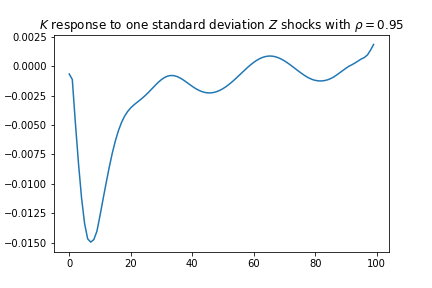
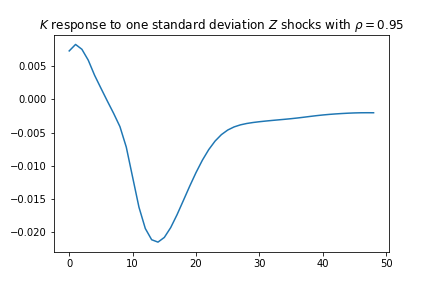
Add files via upload

diff --git a/zchen/ks2.py b/zchen/ks2.py
@@ -79,7 +79,7 @@ def backward_iterate(Va_p, Pi_p, a_grid, e_grid, r, w, beta, eis, hbar,B_Bar,gam
     a_nw=coh_nw-c_nw
     
     ####Compare
-    hh=(Va_w>Va_nw)*1
+    hh=(Va_w>Va_nw)*hbar
     Va=np.maximum(Va_w,Va_nw)
     c=c_w*(Va_w>Va_nw)+c_nw*(Va_w<=Va_nw)
     a=a_w*(Va_w>Va_nw)+a_nw*(Va_w<=Va_nw)
@@ -99,7 +99,7 @@ def pol_ss(Pi, e_grid, a_grid, r, w, beta, eis, hbar,B_Bar,gamma,a_lower, Va_see
     """Find steady state policy functions."""
     if Va_seed is None:
         #coh = (1 + r) * a_grid[np.newaxis, :] + w * hbar * e_grid[:, np.newaxis]
-        coh = (1 + r) * a_grid[np.newaxis, :] + hbar * e_grid[:, np.newaxis]
+        coh = (1 + r) * (a_grid[np.newaxis, :]-a_lower) + hbar * e_grid[:, np.newaxis]
         Va = np.log(coh) 
     else:
         Va = Va_seed
@@ -140,16 +140,16 @@ def K_supply_demand(Pi, a_grid, e_grid, r, w, beta, eis,hbar,B_Bar,gamma,a_lower
     w=(1 - alpha) *  (alpha  / (r+delta)) ** (alpha / (1 - alpha))
     result=household_ss(Pi, a_grid, e_grid, r, w, beta, eis, hbar,B_Bar,gamma,a_lower)
     supply=result['A']
-    labor=result['H']*hbar
+    labor=result['H']
     demand=((result['r']+delta)/alpha)** (1/(alpha-1))*labor
     
     return supply-demand
 
 
-def ks_ss(r_min=0.001, r_max=0.06, beta=0.98267, eis=1, delta=0.025, alpha=0.64, b=0.15, nA=100, amax=200,hbar=1/3,B_Bar=166.3,gamma=0.4,a_lower=0):
+def ks_ss(r_min=0.001, r_max=0.06, beta=0.98267, eis=1, delta=0.025, alpha=0.64, b=0.15, nA=100, amax=200,hbar=1/3,B_Bar=166.3,gamma=0.4,a_lower=-0.2):
     """Solve steady state of full GE model. Calibrate beta to hit target for interest rate."""
     # set up grid
-    a_grid = mathutils.agrid(amax=amax, n=nA)
+    a_grid = mathutils.agrid(amax=amax, n=nA)+a_lower
     #L = pUE / (pUE + pEU)  # labor endowment normalized to 1
     e_grid = mathutils.markov_tauchen(rho=0.929, sigma=0.227, N=5, m=3)[0]
     Pi = mathutils.markov_tauchen(rho=0.929, sigma=0.227, N=5, m=3)[2]
@@ -180,7 +180,7 @@ def ks_ss(r_min=0.001, r_max=0.06, beta=0.98267, eis=1, delta=0.025, alpha=0.64,
 
     # extra evaluation to report variables
     ss = household_ss(Pi, a_grid, e_grid, r, w, beta, eis, hbar,B_Bar,gamma,a_lower)
-    L= ss['H']*hbar
+    L= ss['H']
     K= ((ss['r']+delta)/alpha)** (1/(alpha-1))*L
     Y= K ** alpha * L ** (1 - alpha)
     mpc = mathutils.mpcs(ss['c'], ss['a_grid'], ss['r'])
@@ -205,18 +205,25 @@ def firm(K, L, Z, alpha, delta):
 def get_J(ss, T):
     """Compute Jacobians along computational graph: for r, w, curlyK as functions of Z and K."""
 
-    # firm Jacobian: r and w as functions of Z and K
-    J_firm = rec.all_Js(firm, ss, T, ['K', 'Z'])
+    # firm Jacobian: r and w as functions of Z and K L
+    J_firm = rec.all_Js(firm, ss, T, ['K', 'Z', 'L'])
 
     # household Jacobian: curlyK (called 'a' for assets by J_ha) as function of r and w
     J_ha = het.all_Js(backward_iterate, ss, T, {'r': {'r': 1}, 'w': {'w': 1}})
 
-    # compose to get curlyK as function of Z and K
+    # compose to get curlyK as function of Z and K L
     J_curlyK_K = J_ha['a']['r'] @ J_firm['r']['K'] + J_ha['a']['w'] @ J_firm['w']['K']
     J_curlyK_Z = J_ha['a']['r'] @ J_firm['r']['Z'] + J_ha['a']['w'] @ J_firm['w']['Z']
+    J_curlyK_L = J_ha['a']['r'] @ J_firm['r']['L'] + J_ha['a']['w'] @ J_firm['w']['L']
+    
+    # compose to get curlyL as function of Z and K L
+    J_curlyL_K = J_ha['hh']['r'] @ J_firm['r']['K'] + J_ha['hh']['w'] @ J_firm['w']['K']
+    J_curlyL_Z = J_ha['hh']['r'] @ J_firm['r']['Z'] + J_ha['hh']['w'] @ J_firm['w']['Z']
+    J_curlyL_L = J_ha['hh']['r'] @ J_firm['r']['L'] + J_ha['hh']['w'] @ J_firm['w']['L']
+
 
     # now combine all into a single jacobian that gives r, w, curlyK as functions of Z and K
-    J = {**J_firm, 'curlyK': {'K': J_curlyK_K, 'Z': J_curlyK_Z}}
+    J = {**J_firm, 'curlyK': {'K': J_curlyK_K, 'Z': J_curlyK_Z, 'L': J_curlyK_L}, 'curlyL': {'K': J_curlyL_K, 'Z': J_curlyL_Z, 'L': J_curlyL_L}}
 
     return J
 
@@ -224,17 +231,26 @@ def get_J(ss, T):
 def get_G(J, T):
     """Solve for equilibrium G matrices: K, r, w as functions of Z."""
 
-    # obtain H_K, H_Z
+    # obtain H_K, H_Z, H_L
     H_K = J['curlyK']['K'] - np.eye(T)
     H_Z = J['curlyK']['Z']
+    H_L = J['curlyK']['L']
+    
+    # obtain G_K, G_Z, G_L
+    G_K = J['curlyL']['K'] 
+    G_Z = J['curlyL']['Z']
+    G_L = J['curlyL']['L'] - np.eye(T)
 
     # solve for K as function of Z
-    G = {'K': -np.linalg.solve(H_K, H_Z)}  # H_K^(-1)H_Z
+    coef_k=np.linalg.solve(G_K-G_L @ np.linalg.solve(H_L, H_K),G_L @ np.linalg.solve(H_L, H_Z)-G_Z)
+    coef_L=np.linalg.solve(G_L-G_K @ np.linalg.solve(H_K, H_L),G_K @ np.linalg.solve(H_K, H_Z)-G_Z)
+
+    G = {'K': coef_k, 'L': coef_L }  
 
     # solve for r, w, Y as functions of Z too
-    G['r'] = J['r']['Z'] + J['r']['K'] @ G['K']
-    G['w'] = J['w']['Z'] + J['w']['K'] @ G['K']
-    G['Y'] = J['Y']['Z'] + J['Y']['K'] @ G['K']
+    G['r'] = J['r']['Z'] + J['r']['K'] @ G['K']+J['r']['L'] @ G['L']
+    G['w'] = J['w']['Z'] + J['w']['K'] @ G['K']+J['w']['L'] @ G['L']
+    G['Y'] = J['Y']['Z'] + J['Y']['K'] @ G['K']+J['Y']['L'] @ G['L']
 
     return G
 

diff --git a/zchen/main.py b/zchen/main.py
@@ -9,10 +9,10 @@ import numpy as np
 import matplotlib.pyplot as plt
 
 delta=0.025
-alpha=0.64
+alpha=0.36
 hbar=1/3
 
-ss=ks2.ks_ss(delta=delta,alpha=alpha,hbar=hbar)
+ss=ks2.ks_ss(delta=delta,alpha=alpha,hbar=hbar,amax=20,a_lower=0)
 
 T=100
 
@@ -25,26 +25,35 @@ sigma_z=0.007
 
 dZ = sigma_z*rho_z**(np.arange(T))
 
-irfs=ks2.td_linear(G, dZ, outputs=('r', 'w', 'K'))
+irfs=ks2.td_linear(G, dZ, outputs=('r', 'w', 'K', 'L' , 'Y'))
 
-irfs['L']=(((irfs['r']+ss['r']+delta)/alpha/np.exp(dZ))**(1/(1-alpha))*(irfs['K']+ss['K'])-ss['L'])/hbar
 
 plt.figure()
-plt.plot(irfs['r']/ss['r'])
+plt.plot(ss['a_grid'][0:85],ss['a'][2,0:85])
+plt.title('Policy Function: Next period assets')
+plt.savefig('a_pol.png')
+
+plt.figure()
+plt.plot((irfs['r']/ss['r'])[1:50])
 plt.title(r'$r$ response to one standard deviation $Z$ shocks with $\rho=0.95$')
-plt.savefig('ifs_r.png')
+plt.savefig('irf_r.png')
 
 plt.figure()
-plt.plot(irfs['w']/ss['w'])
+plt.plot((irfs['w']/ss['w'])[1:50])
 plt.title(r'$w$ response to one standard deviation $Z$ shocks with $\rho=0.95$')
-plt.savefig('ifs_w.png')
+plt.savefig('irf_w.png')
 
 plt.figure()
-plt.plot(irfs['K']/ss['K'])
+plt.plot((irfs['K']/ss['K'])[1:50])
 plt.title(r'$K$ response to one standard deviation $Z$ shocks with $\rho=0.95$')
-plt.savefig('ifs_K.png')
+plt.savefig('irf_K.png')
 
 plt.figure()
-plt.plot(irfs['L']/ss['L'])
+plt.plot((irfs['L']/ss['L'])[1:50])
 plt.title(r'Labor Participation response to one standard deviation $Z$ shocks with $\rho=0.95$')
-plt.savefig('ifs_L.png')
+plt.savefig('irf_L.png')
+
+plt.figure()
+plt.plot((irfs['Y']/ss['Y'])[1:50])
+plt.title(r'Output response to one standard deviation $Z$ shocks with $\rho=0.95$')
+plt.savefig('irf_Y.png')
